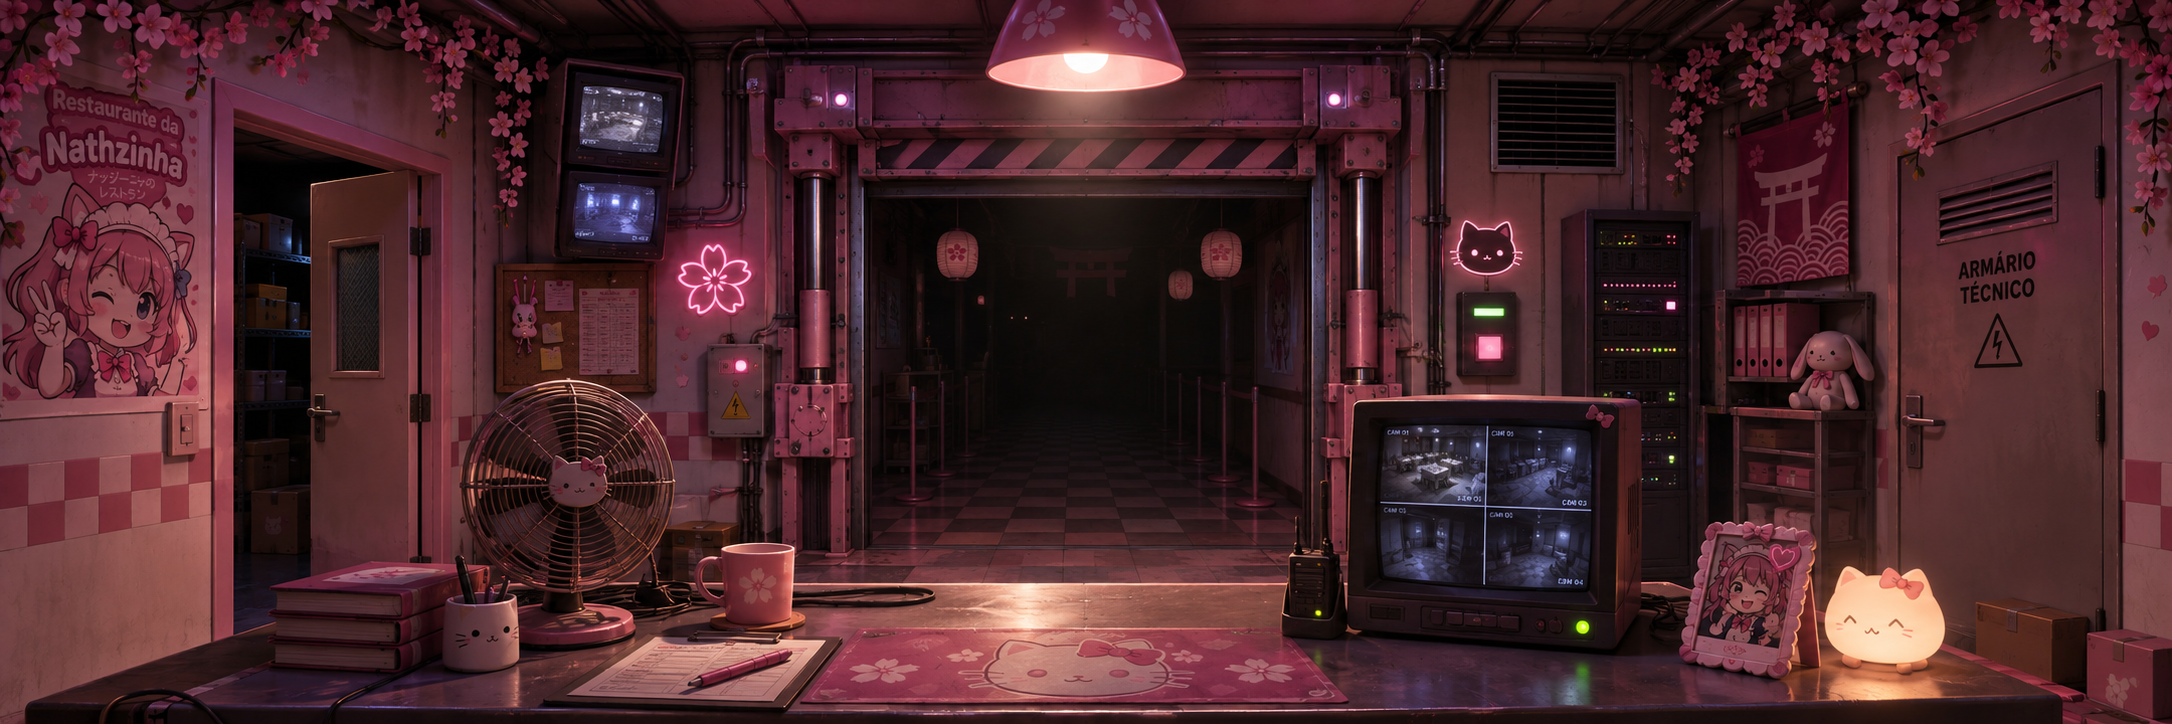
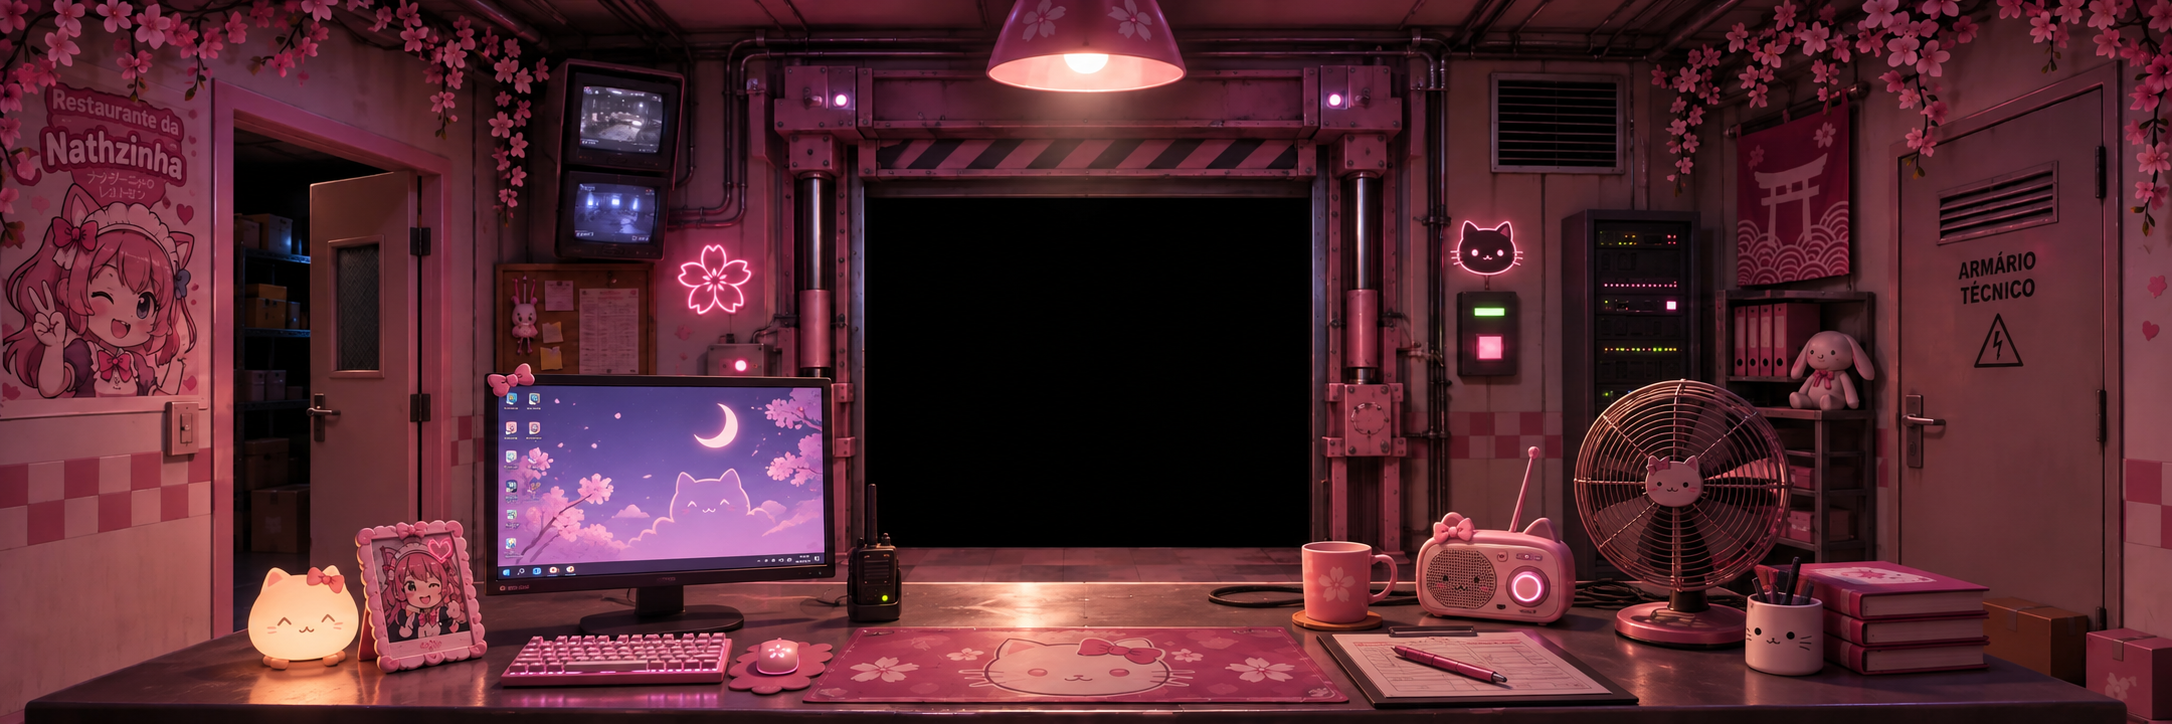
mais ajustes e states

diff --git a/src/data/game-data.js b/src/data/game-data.js
@@ -52,6 +52,13 @@ const CAMERAS = [
     "angle": 208,
     "fov": 88,
     "image": "./public/images/cameras/CAM04.webp",
+    "gateStateImages": {
+      "gates": ["G08"],
+      "images": {
+        "open": "./public/images/cameras/states/CAM04-open.webp",
+        "closed": "./public/images/cameras/CAM04.webp"
+      }
+    },
     "technical": "./public/reference/cameras/CAM04_visao.png",
     "renderAvailable": true
   },
@@ -64,10 +71,9 @@ const CAMERAS = [
     "y": 21.95,
     "angle": 322,
     "fov": 82,
-    "image": "./public/images/cameras/states/CAM05-open-open.png",
+    "image": "./public/images/cameras/CAM05.webp",
     "gateStateImages": {
-      "leftGate": "G04",
-      "rightGate": "G05",
+      "gates": ["G04", "G05"],
       "images": {
         "open-open": "./public/images/cameras/states/CAM05-open-open.png",
         "open-closed": "./public/images/cameras/states/CAM05-open-closed.png",
@@ -126,9 +132,9 @@ const CAMERAS = [
     "y": 21.95,
     "angle": 332,
     "fov": 82,
-    "image": null,
+    "image": "./public/images/cameras/CAM09.webp",
     "technical": "./public/reference/cameras/CAM09_visao.png",
-    "renderAvailable": false
+    "renderAvailable": true
   },
   {
     "id": "CAM10",

diff --git a/src/styles/main.css b/src/styles/main.css
@@ -17,7 +17,7 @@ button:focus-visible,[tabindex]:focus-visible{outline:2px solid #ffd3e8;outline-
 .office-view{z-index:1;background:#09050d;touch-action:pan-y}
 .office-scene{position:absolute;left:50%;top:0;width:max(100cqw,300cqh);height:100%;transform:translateX(calc(-50% + var(--pan-shift,0px)));will-change:transform}
 .office-art{display:block;width:100%;height:100%;object-fit:fill;pointer-events:none}
-.monitor-hotspot{position:absolute;left:61.5%;top:55%;width:14.2%;height:35%;border:1px solid transparent;background:transparent;opacity:.85;outline:none;border-radius:5px}
+.monitor-hotspot{position:absolute;left:22.3%;top:51.5%;width:16.1%;height:30.7%;border:1px solid transparent;background:transparent;opacity:.85;outline:none;border-radius:5px}
 .monitor-hotspot::before{content:"";position:absolute;inset:9%;background:rgba(251,169,230,.08);opacity:0;transition:opacity .2s}
 .monitor-hotspot:focus-visible::before{opacity:1}
 .hotspot-corner{position:absolute;width:18px;height:18px;border-color:#ffd0e7;opacity:0;transition:opacity .2s}

diff --git a/src/main.js b/src/main.js
@@ -101,9 +101,8 @@ function showTechnical(cam) {
 function cameraImage(cam) {
   const views = cam.gateStateImages;
   if (!views) return cam.image;
-  const left = map.isGateClosed(views.leftGate) ? 'closed' : 'open';
-  const right = map.isGateClosed(views.rightGate) ? 'closed' : 'open';
-  return views.images[`${left}-${right}`];
+  const key = views.gates.map(id => map.isGateClosed(id) ? 'closed' : 'open').join('-');
+  return views.images[key] ?? cam.image;
 }
 
 function updateCameraFeed(cam) {
@@ -315,8 +314,8 @@ resizeObserver.observe(dom.game);
 changeCamera(CAMERAS[0].id);
 updateOfficeView();
 preloadImages(Object.values(OFFICE.images));
-// Load all four CAM05 states before the player starts toggling its gates.
-preloadCamera(CAMERAS.find(cam => cam.gateStateImages));
+// Load state variants before the player starts toggling their gates.
+for (const cam of CAMERAS) if (cam.gateStateImages) preloadCamera(cam);
 updateClockUI();
 requestAnimationFrame(tick);
 

diff --git a/tests/test_office_images.py b/tests/test_office_images.py
@@ -9,16 +9,18 @@ views = {name: Image.open(OFFICE / f'states/office-{name}.webp').convert('RGB')
          for name in ['open-dark', 'open-lit', 'closed']}
 assert original.size == (2172, 724)
 # Test every pixel outside the central aperture's bounding rectangle.
-regions = [(0, 0, 2172, 198), (0, 548, 2172, 724),
-           (0, 198, 865, 548), (1308, 198, 2172, 548)]
+regions = [(0, 0, 2172, 197), (0, 547, 2172, 724),
+           (0, 197, 864, 547), (1310, 197, 2172, 547)]
 for name, image in views.items():
     assert image.size == original.size, name
     for region in regions:
         assert ImageChops.difference(original.crop(region), image.crop(region)).getbbox() is None, (name, region)
-    # Foreground radio/antenna crossing the passage stays on top of all views.
-    for point in [(1299, 485), (1295, 535), (748, 573)]:
+    # The left monitor, the radio antenna and right mug stay in the foreground.
+    for point in [(655, 479), (872, 502), (888, 544), (1308, 545)]:
         assert image.getpixel(point) == original.getpixel(point), (name, point)
 
+assert ImageChops.difference(views['open-dark'], original).getbbox() is None
+assert not (OFFICE / 'office.webp').exists()
 corridor = (890, 210, 1280, 530)
 mean = lambda image, box: sum(ImageStat.Stat(image.crop(box)).mean) / 3
 assert mean(views['open-dark'], corridor) < 3

diff --git a/outros/prompts/ESCRITORIO_ESTADOS_PORTAO.md b/outros/prompts/ESCRITORIO_ESTADOS_PORTAO.md
@@ -1,36 +1,30 @@
-# Escritório — portão principal e iluminação F
+# Sala de controle — portão e iluminação
 
-Ferramenta: `image_gen` integrada, em modo de edição. Alvo: `public/images/office/office-original.png`, 2172 × 724. O original está preservado.
+A nova arte fornecida em `NOVA.png` é o PNG mestre `public/images/office/office-original.png`, com os mesmos bytes e dimensões de 2172 × 724. Ela já traz o corredor escuro. A arte e os estados da sala anterior foram retirados.
 
-## Imagens finais
+- `public/images/office/states/office-open-dark.webp`: portão aberto no breu, exportação sem perdas da nova arte.
+- `public/images/office/states/office-open-lit.webp`: o corredor aparece no centro da luz circular.
+- `public/images/office/states/office-closed.webp`: o portão cobre a passagem.
 
-- `public/images/office/states/office-open-dark.webp`: estado inicial, portão aberto e corredor quase totalmente escuro.
-- `public/images/office/states/office-open-lit.webp`: portão aberto, luz circular com borda suave revelando o corredor original.
-- `public/images/office/states/office-closed.webp`: portão hidráulico fechado.
+Os dois estados editados foram criados com o ImageGen integrado. Na finalização, somente a passagem recebeu os recortes gerados; a moldura e os objetos em primeiro plano foram preservados na nova arte. A sala mantém o panorama 3:1.
 
-Os WEBP finais são sem perdas. Na finalização, os pixels fora da passagem central foram restaurados do original. O portão fechado aproveita a arte gerada dentro dessa passagem. A luz foi recomposta sobre o corredor original com um círculo de raio 138 px, centro (1086, 367), borda desfocada de 18 px. O estado escuro retém 3,5% da intensidade original do corredor; o centro iluminado revela os detalhes originais com intensidade até 1,75×. Mesa, rádio em primeiro plano, monitor, molduras, pistões e iluminação do restante da sala permanecem estáveis.
+**F** alterna a luz circular quando o portão está aberto. **G01** no mapa controla o portão, inclusive em reaberturas automáticas. A área clicável foi movida para o monitor grande no lado esquerdo da mesa e acompanha o panorama.
 
-## Mecânica
+## Prompts do ImageGen
 
-G01 abre/fecha o portão principal pelo mapa. O escritório acompanha a reabertura automática do G01 quando o limite de três portões fechados exige isso. F alterna a luz apenas no escritório e com o portão aberto; repetição de tecla não alterna repetidamente. Abrir o monitor, perder o foco ou reiniciar o turno desliga a luz. O cenário inteiro, incluindo o círculo de luz, acompanha o panorama, sem aumentar o campo de visão em ultrawide.
+### Fechado
 
-## Prompts usados
+Use case: precise-object-edit. Edit target: the attached NEW 2172×724 security control room panorama, with a large desktop computer monitor on the LEFT, pink radio and fan on the RIGHT, and a black central doorway. Change ONLY the black opening between the existing hydraulic pistons: close it with a heavy, horizontally ribbed dark plum steel rolling shutter, fitted below the existing hazard-striped header, down to the original threshold. Match the pink room's reflections, with a narrow yellow and black warning band on the shutter's lower edge. Preserve the new desktop monitor on the left, the walkie-talkie antenna in front of the door's left edge, mug at right, and all foreground objects. Every pixel outside the existing black opening must stay unchanged. Preserve the exact 3:1 panorama, original dimensions and crop. No changes to the side doors, framing, decor, light or furniture. No people, UI or added text. Output one full-frame scene.
 
-### Portão fechado
+### Aberto com luz circular
 
-Use case: precise-object-edit. Edit target is this existing 2172x724 panoramic game security office. Produce ONE same-size panorama. Change ONLY the central/front hydraulic gate: close it completely by lowering a heavy realistic ribbed steel security shutter inside the EXISTING central rectangular opening. It must fit exactly between the existing hydraulic columns and below the existing header, bottom edge at the existing threshold behind the desk. Dark plum-grey metal, subtle pink reflected office light, a narrow yellow/black safety band at its bottom. Entire corridor should be occluded by the closed solid shutter. The shutter is behind ALL original desk objects including the mug, desk edge, radio, monitors. Preserve every pixel outside that central opening: original room architecture, existing hydraulic pistons, frames, warning header, desk, fan, papers, monitors, posters, cabinet, flowers, lamps, walls, lights, colors, shadows and perspective. Do not move the desk or gate frame. No people or animatronics. No UI, text overlays, collage or reframing. Return one full panoramic background, matching the original 3:1 aspect ratio.
+Use case: localized lighting edit. Image 1 is the sole EDIT TARGET: the NEW control room panorama, with a large computer on the left and fan and pink radio on the right. Image 2 is a visual reference ONLY for the corridor behind the central gate; never copy any foreground or office objects from image 2. In image 1 keep the central hydraulic gate open and the opening black except for one soft-edged circular flashlight beam in the middle, about two-thirds of the opening width. Within the beam reveal the same dim corridor from the reference, including the checkerboard floor, distant red torii motif and small hanging lanterns. Outside the beam keep the opening pitch black. Do not move or redraw anything in the new office: keep the monitor at left, mug at right, and walkie-talkie and antenna in the foreground intact. Only edit the black central opening. No new objects or people. Exact original camera pose and 2172×724 (3:1) framing. Return one full panorama without UI or text.
 
-### Portão aberto / breu
-
-Use case: lighting-weather, strict local edit of existing game background. Edit target: this 2172x724 security office panorama. Make ONLY the corridor seen through the central open hydraulic gate almost completely dark, near-total black, with essentially no visible detail in the distance. Keep gate fully OPEN and its existing hydraulic frame unchanged. The desk and its objects, fan, mug, radio, monitors, walls, all office lights, the cabinets, posters, side doorway, and all other pixels outside the central corridor opening must remain IDENTICAL. Do not darken the whole office. Only the recess beyond the central gate should become a pitch-dark corridor. Preserve original 3:1 panoramic framing, no new objects, no UI or collage. One full panoramic image.
-
-### Portão aberto / luz circular
-
-Use case: lighting-weather. Strict local edit of the attached 2172x724 panoramic security office. Only change the corridor INSIDE the central OPEN hydraulic gate: make it almost totally black except for ONE medium-sized ROUND flashlight beam in the middle of that opening, softly feathered, centered on the distant corridor, revealing the same original corridor furniture, hanging lanterns, torii ornament and checkerboard floor that are already in the reference. The beam should show the ORIGINAL corridor, not invent objects or new geometry. Outside the circular beam the hallway is pitch dark. Do NOT illuminate the whole doorway. Do NOT draw a flashlight object. Every pixel of the OFFICE OUTSIDE the central passage must be unchanged: door frame and pistons, header, desk, fan, mug, radio, monitors, cabinets, side door, posters, lamps, reflections, color and exposure. Same original 3:1 panorama, exact camera pose, one image, no UI, no text or panels.
+Na edição iluminada, o antigo panorama serviu apenas de referência para o corredor. Nenhum objeto ou pixel do antigo escritório foi copiado para a nova sala.
 
 ## Novas câmeras fornecidas
 
-- `public/images/cameras/novacampalco.png` → `CAM03.webp`, substituindo a arte antiga do palco (incluindo remoção do PNG antigo).
-- `public/images/cameras/cam salao principal fantando.png` → `CAM04.webp`, preenchendo o ângulo que faltava no salão.
-- Os novos PNG fornecidos foram mantidos intactos; WEBP foram exportados com qualidade 88.
+- `public/images/cameras/originals/CAM03.png` (antes `novacampalco.png`) → `CAM03.webp`, substituindo a arte antiga do palco (incluindo remoção do PNG antigo).
+- `public/images/cameras/originals/CAM04.png` (antes `cam salao principal fantando.png`) → `CAM04.webp`, preenchendo o ângulo que faltava no salão.
+- Os PNG fornecidos foram renomeados sem alterar seu conteúdo; os WEBP de base foram exportados com qualidade 88.
 - CAM05: vínculo corrigido para G04 à esquerda e G05 à direita na imagem, conforme teste visual do usuário.

diff --git a/README.md b/README.md
@@ -20,7 +20,7 @@ Restaurante_da_Nathzinha_Web_V1/
 ├── public/                          # Recursos consumidos pelo navegador
 │   ├── images/
 │   │   ├── office/                  # Panorama usado no jogo + PNG original
-│   │   ├── cameras/                 # WEBP otimizadas: CAM01–08, CAM10–12
+│   │   ├── cameras/                 # WEBP otimizadas: CAM01–12
 │   │   │   └── originals/           # Imagens PNG originais preservadas
 │   │   ├── animatronics/            # As três artes 2D, não aparecem nesta V1
 │   │   └── branding/                # Ícone do site
@@ -72,29 +72,25 @@ A área do jogo tem largura máxima de 16:9, centralizada sobre fundo preto. Mon
 | CAM01 | Lojinha | Cena 3D final |
 | CAM02 | Recepção | Cena 3D final |
 | CAM03 | Salão principal, virada para o palco | Nova cena do palco |
-| CAM04 | Salão principal, parede oposta | Cena final do outro lado do salão |
+| CAM04 | Salão principal, parede oposta | Portão sul G08 aberto ou fechado |
 | CAM05 | VIP 1 rosa | Quatro estados visuais dos portões G04/G05 |
 | CAM06 | VIP 2 lavanda | Cena 3D final |
 | CAM07 | Fliperama | Cena 3D final |
 | CAM08 | Estoque | Cena 3D 4K |
-| CAM09 | Área de serviço | **Apenas referência técnica** |
+| CAM09 | Área de serviço | Cena da sala técnica |
 | CAM10 | Cozinha | Cena 3D final |
 | CAM11 | Corredor de serviço, oeste | Cena 3D do corredor de pedidos/cozinha |
 | CAM12 | Corredor de serviço, leste | Cena 3D do corredor da retaguarda |
 
-**Atenção:** somente CAM09 ainda usa referência técnica (`public/reference/cameras/CAM09_visao.png`). CAM03 e CAM04 agora usam as novas imagens fornecidas (`novacampalco.png` e `cam salao principal fantando.png`), otimizadas para WEBP. A arte anterior do palco foi removida a pedido; o manifesto V8 permanece como registro histórico dos arquivos originalmente recebidos.
+As 12 câmeras têm cenas próprias, com `CAM01.webp` a `CAM12.webp` na pasta `public/images/cameras/` e os PNG mestres numerados em `originals/`. As plantas técnicas continuam disponíveis como fallback. O manifesto V8 é um registro histórico, anterior à substituição da arte do palco e à inclusão da CAM04 e CAM09.
+
+Na CAM04, o portão à esquerda acompanha o G08, entre a recepção e a parede sul do salão. A imagem padrão mostra o portão aberto com breu atrás; fechar o G08 mostra o portão baixado. Detalhes e prompt: `outros/prompts/CAM04_ESTADOS_PORTAO.md`.
 
 A CAM05 começa com os dois portões abertos, mostrando breu nas aberturas. Os portões G04/G05 no mapa controlam as quatro imagens da sala, inclusive quando um deles é reaberto automaticamente pelo limite de três fechados. A sala usa a mesma base de pixels em todos os estados. Detalhes e prompts: `outros/prompts/CAM05_ESTADOS_PORTOES.md`. G04 controla a esquerda e G05 a direita na imagem.
 
 Verificação dos portões e escritório: `node tests/camera-gates.cjs` testa a luz F, os três estados do escritório, a CAM05 e a ligação com os portões. `python tests/test_cam05_images.py` e `python tests/test_office_images.py` (Pillow) conferem a consistência dos cenários.
 
-Os três estados do escritório estão em `public/images/office/states/`; o panorama original permanece intacto. Prompts e composição: `outros/prompts/ESCRITORIO_ESTADOS_PORTAO.md`.
-
-### Colocar uma câmera nova depois
-
-1. Adicione sua imagem `public/images/cameras/CAM09.webp`. Prefira 16:9, qualidade consistente e **sem animatrônicos** para a imagem-mestra.
-2. Em `src/data/game-data.js`, encontre o objeto correspondente e atualize `"image": "./public/images/cameras/CAM09.webp"` e `"renderAvailable": true`.
-3. Salve, envie o commit ao GitHub. A cena será exibida na próxima publicação, sem recompilação.
+Os três estados da nova sala de controle estão em `public/images/office/states/`. O PNG mestre é a arte nova, e a área clicável acompanha o monitor à esquerda da mesa. Prompts e composição: `outros/prompts/ESCRITORIO_ESTADOS_PORTAO.md`.
 
 O mapa da interface é desenhado automaticamente com os **polígonos das salas, aberturas, posições e azimutes das 12 câmeras** do `nathzinha_v7_planta_medidas.json`. As plantas e documentos V8 continuam disponíveis como fonte de referência; o jogo não muda a arquitetura definida.
 

diff --git a/outros/prompts/CAM04_ESTADOS_PORTAO.md b/outros/prompts/CAM04_ESTADOS_PORTAO.md
@@ -1,0 +1,9 @@
+# CAM04 — portão sul do salão
+
+A imagem fechada fornecida pelo usuário está em `public/images/cameras/originals/CAM04.png`, com o render do jogo em `public/images/cameras/CAM04.webp`. O estado aberto está em `public/images/cameras/states/CAM04-open.webp`. Ambos os renders têm 1587 × 941 pixels. O recorte gerado para a abertura foi composto sobre o render fechado e salvo sem perdas para manter os pixels do restante da cena iguais.
+
+O G08 é o portão sul da planta, entre a recepção e o salão principal. Ele controla o portão grande à esquerda na CAM04. A câmera começa com o portão aberto, e acompanha as aberturas manuais e automáticas do mapa.
+
+Prompt usado no ImageGen integrado, em modo de edição:
+
+Use case: precise-object-edit. Edit target: the attached CAM04 game background, full frame, 1587 × 941. Open ONLY the large LEFT metal rolling gate, under the pink bow between the two warm square wall lamps. Raise the metal slats fully out of sight into the existing top frame. The interior of this one doorway must be pitch black and featureless: no corridor details, no people, no lights beyond. Preserve the original jambs, bow, threshold, floor, foreground chair backs and menu card that partly overlap the doorway, and all other pixels outside that shutter. The small partial shutter at the far right edge remains exactly as it is. Keep every table, stage, poster, lantern, wall, reflection, color, camera angle, crop, and framing. Do not change the size or shape of the doorway. Output one full image, without UI or added text.
